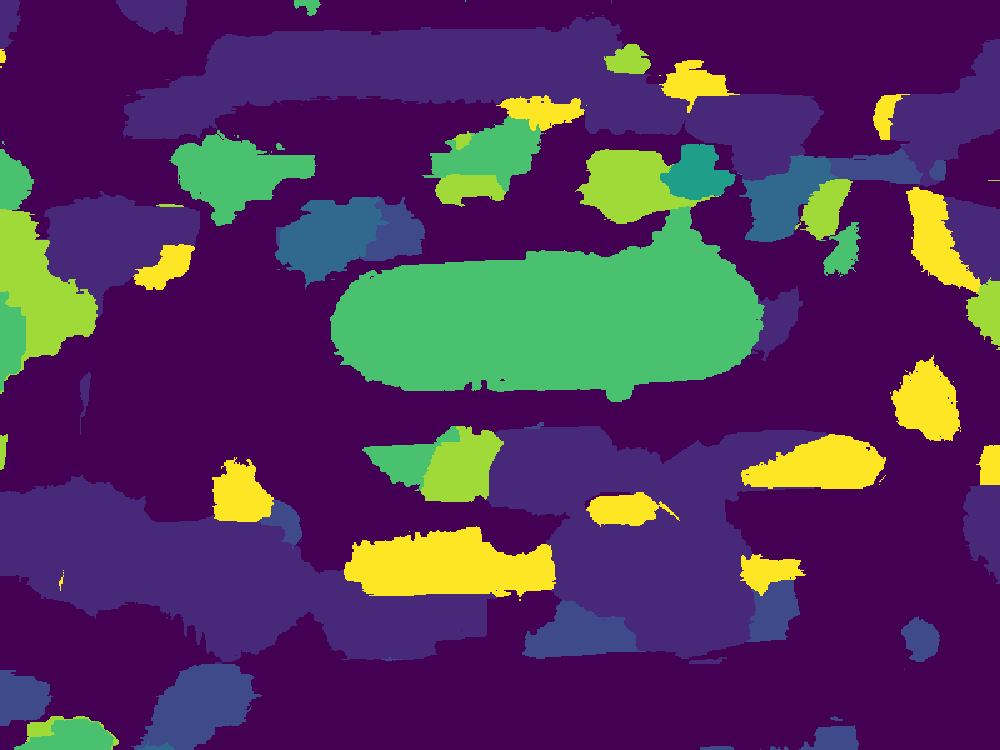
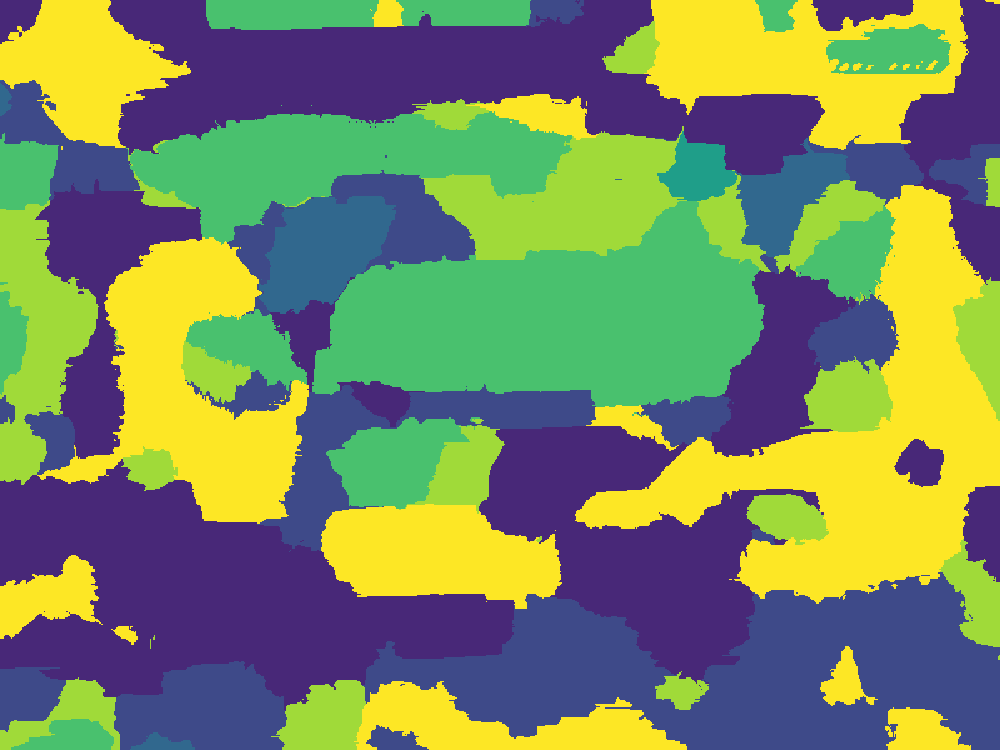
emmm

diff --git a/benchmark/clearclip.py b/benchmark/clearclip.py
@@ -7,15 +7,16 @@ import numpy as np
 from typing import Union, List
 
 # ===================== 固定配置 =====================
+# 去除 'background'，变为 8 分类
 TARGET_LABELS = [
-    'background', 'bareland', 'pavement', 'road', 'water',
+    'bareland', 'pavement', 'road', 'water',
     'tree', 'grass', 'cropland', 'building'
 ]
 
+# 对应删除第一个背景颜色 (68, 1, 84)，保持与标签数量一致
 CUSTOM_PALETTE = [
-    (68, 1, 84), (72, 40, 120), (62, 74, 137), (49, 104, 142),
-    (38, 130, 142), (31, 158, 137), (73, 193, 110), (160, 218, 57),
-    (253, 231, 37)
+    (72, 40, 120), (62, 74, 137), (49, 104, 142), (38, 130, 142), 
+    (31, 158, 137), (73, 193, 110), (160, 218, 57), (253, 231, 37)
 ]
 
 _TEMPLATES = ['a satellite photo of a {}.']
@@ -169,13 +170,14 @@ class DenseClipPAMR(nn.Module):
         logits = logits.permute(0, 3, 1, 2)
 
         # 3. PAMR 细化
-        # 使用缩放后的 img_tensor 尺寸作为引导图
         guide_img = F.interpolate(img_tensor, size=(new_h, new_w), mode='bilinear', align_corners=False)
         refined_mask = self.pamr(guide_img, logits)
         
         # 4. 后处理与尺寸还原
         pred_mask = refined_mask.argmax(dim=1).squeeze(0).cpu().numpy()
         color_output = np.zeros((new_h, new_w, 3), dtype=np.uint8)
+        
+        # 因为变成了8分类，这里的映射自动对应去除了背景后的颜色列表
         for idx, color in enumerate(CUSTOM_PALETTE):
             color_output[pred_mask == idx] = color
             
@@ -194,8 +196,7 @@ if __name__ == "__main__":
     
     if os.path.exists(IMAGE_PATH):
         model = DenseClipPAMR()
-        print(f"正在处理: {IMAGE_PATH} (限制宽度: 512)...")
-        # 如果显存依然不够，可以尝试将 max_width 设为 448 或更小
+        print(f"正在处理: {IMAGE_PATH} (去除背景类别，限制宽度: 800)...")
         result = model(IMAGE_PATH, max_width=800)
         result.save(OUT_PATH)
         print(f"完成！结果已保存至: {OUT_PATH}")
